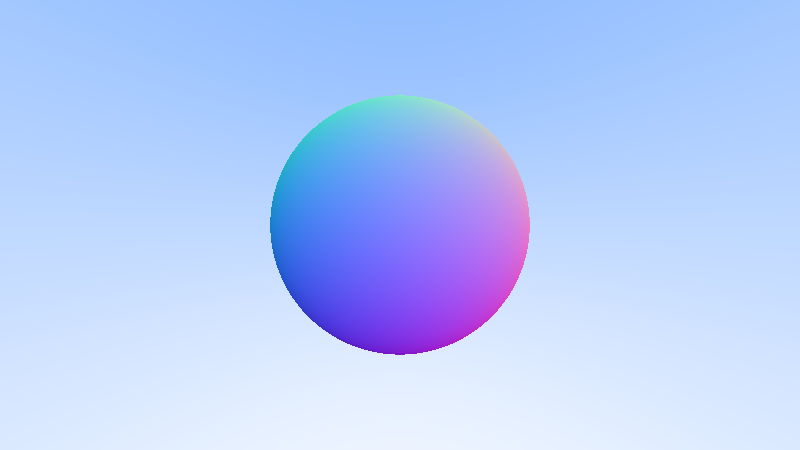
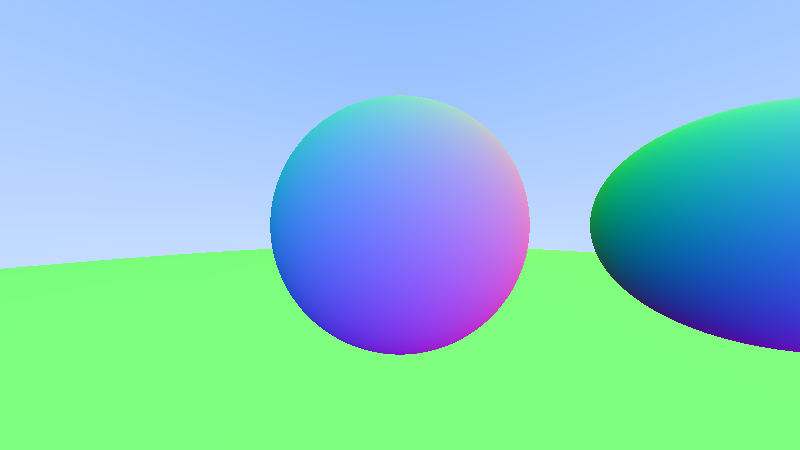
calculating normals and multiple spheres

diff --git a/Reza_Raytracer/main.cpp b/Reza_Raytracer/main.cpp
@@ -3,64 +3,23 @@
 #include <iostream>
 
 #include "ImageHandler.h"
-#include "Vec3.h"
-#include "Ray3.h"
+
+#include "UsefulThings.h"
+
+#include "HittableList.h"
+#include "Sphere.h"
 
 
-double RaySphereIntersection(const Point3& center, double radius, const Ray3& r)
+Color RayColor(const Ray3& r, const HittableList& world)
 {
-
-	/*
-	Equation
-		b * b t^2 +
-		2 b * (A - C) t +
-		(A - C) * (A - C) - r^2
-		= 0
-	where
-		t is a scalar
-		b is a direction vector
-		A is the the ray origin
-		C is the center of the sphere
-	*/
-	
-	Vec3 oc = r.Origin() - center;
-
-	// original version
-	/*auto a = Dot(r.Direction(), r.Direction());
-	auto b = 2.0 * Dot(oc, r.Direction());
-	auto c = Dot(oc, oc) - radius * radius;
-	auto discriminant = b * b - 4 * a * c;*/
-
-	// improved
-	auto a = r.Direction().LengthSquared(); // because r * r = ||r||
-	auto half_b = Dot(oc, r.Direction());
-	auto c = oc.LengthSquared() - radius * radius;
-	auto discriminant = half_b * half_b - a * c;
-	
-	if(discriminant < 0)
+	HitRecord rec;
+	if (world.Hit(r, 0, infinity, rec)) 
 	{
-		return -1;
-	}
-
-	// original version
-	//return (-b - sqrt(discriminant)) / (2.0 * a);
-	// improved
-	return (-half_b - sqrt(discriminant)) / a;
-}
-
-Color RayColor(const Ray3& r)
-{
-	Point3 sphere_center(0, 0, -1);
-	double sphere_radius = 0.5;
-	double t = RaySphereIntersection(sphere_center, sphere_radius, r);
-	if (t > 0)
-	{
-		Vec3 normal_vec = UnitVector(r.At(t) - sphere_center);
-		return 0.5 * Color(normal_vec.x() + 1, normal_vec.y() + 1, normal_vec.z() + 1);
+		return 0.5 * (rec.normal + Color(1, 1, 1));
 	}
 	
 	Vec3 unit_direction = UnitVector(r.Direction());
-	t = 0.5 * (unit_direction.y() + 1.0);
+	auto t = 0.5 * (unit_direction.y() + 1.0);
 	return (1.0 - t) * Color(1.0, 1.0, 1.0) + t * Color(0.5, 0.7, 1.0);
 }
 
@@ -72,6 +31,12 @@ int main()
 	const int image_height = static_cast<int>(image_width / aspect_ratio);
 	ImageHandler imgHandler(image_width, image_height); // set up image handler
 
+	 // World
+	HittableList world;
+	world.Add(make_shared<Sphere>(Point3(0, 0, -1), 0.5));
+	//world.Add(make_shared<Sphere>(Point3(1.5, 0, -1), 0.5));
+	world.Add(make_shared<Sphere>(Point3(0, -100.5, -1), 100));
+	
 	// Camera
 	const auto viewport_height = 2.0;
 	const auto viewport_width = aspect_ratio * viewport_height;
@@ -93,7 +58,7 @@ int main()
 			auto u = double(x) / (image_width - 1);
 			auto v = double(y) / (image_height - 1);
 			Ray3 r(origin, lower_left_corner + u * horizontal + v * vertical - origin);
-			Color pixel_color = RayColor(r);
+			Color pixel_color = RayColor(r, world);
 
 			imgHandler.SetPixel(pixel_color.x(), pixel_color.y(), pixel_color.z());
 		}

diff --git a/Reza_Raytracer/Sphere.cpp b/Reza_Raytracer/Sphere.cpp
@@ -1,0 +1,64 @@
+
+#include "Sphere.h"
+
+
+bool Sphere::Hit(const Ray3& r, 
+				 double t_min, 
+				 double t_max, HitRecord& rec) const
+{
+    /*
+    Equation
+        b * b t^2 +
+        2 b * (A - C) t +
+        (A - C) * (A - C) - r^2
+        = 0
+    where
+        t is a scalar
+        b is a direction vector
+        A is the the ray origin
+        C is the center of the sphere
+    */
+
+    Vec3 oc = r.Origin() - center;
+	
+    // original version
+    /*auto a = Dot(r.Direction(), r.Direction());
+    auto b = 2.0 * Dot(oc, r.Direction());
+    auto c = Dot(oc, oc) - radius * radius;
+    auto discriminant = b * b - 4 * a * c;*/
+
+	// improved version    
+    auto a = r.Direction().LengthSquared();
+    auto half_b = Dot(oc, r.Direction());
+    auto c = oc.LengthSquared() - radius * radius;
+
+    auto discriminant = half_b * half_b - a * c;
+    if (discriminant < 0)
+    {
+        return false;
+    }
+    
+    // original version
+    //return (-b - sqrt(discriminant)) / (2.0 * a);
+    
+    // Find the nearest root that lies in the acceptable range.
+    auto sqrtd = sqrt(discriminant);
+    auto root = (-half_b - sqrtd) / a;
+    if (root < t_min || t_max < root) 
+    {
+    	// not good, compute teh other root
+        root = (-half_b + sqrtd) / a;
+        if (root < t_min || t_max < root)
+        {
+            return false;
+        }
+    }
+
+    rec.t = root;
+    rec.p = r.At(rec.t);
+    //rec.normal = (rec.p - center) / radius;
+    Vec3 outward_normal = (rec.p - center) / radius;
+    rec.SetFaceNormal(r, outward_normal);
+	
+    return true;
+}

diff --git a/Reza_Raytracer/HittableList.h b/Reza_Raytracer/HittableList.h
@@ -1,0 +1,40 @@
+#ifndef __HITTABLE_LIST_H__
+#define __HITTABLE_LIST_H__
+
+#include "Hittable.h"
+
+#include <memory>
+#include <vector>
+
+using std::shared_ptr;
+using std::vector;
+
+class HittableList : public Hittable
+{
+public:
+    HittableList()
+    {	    
+    }
+
+    HittableList(const shared_ptr<Hittable>& object)
+    {
+	    Add(object);
+    }
+
+    void Clear() { objects.clear(); }
+
+    void Add(const shared_ptr<Hittable>& object)
+    {
+	    objects.push_back(object);
+    }
+
+    virtual bool Hit(const Ray3& r, 
+					 double t_min, 
+					 double t_max, 
+					 HitRecord& rec) const override;
+
+public:
+    vector<shared_ptr<Hittable>> objects;
+};
+
+#endif

diff --git a/Reza_Raytracer/Hittable.h b/Reza_Raytracer/Hittable.h
@@ -1,0 +1,27 @@
+#ifndef HITTABLE_H
+#define HITTABLE_H
+
+#include "Ray3.h"
+
+struct HitRecord
+{
+    Point3 p;
+    Vec3 normal;
+    double t;
+    bool front_face;
+
+	// make sure the normal always against the ray 
+    inline void SetFaceNormal(const Ray3& r, const Vec3& outward_normal)
+	{
+        front_face = Dot(r.Direction(), outward_normal) < 0;
+        normal = front_face ? outward_normal : -outward_normal;
+    }
+};
+
+class Hittable
+{
+public:
+    virtual bool Hit(const Ray3& r, double t_min, double t_max, HitRecord& rec) const = 0;
+};
+
+#endif

diff --git a/Reza_Raytracer/HittableList.cpp b/Reza_Raytracer/HittableList.cpp
@@ -1,0 +1,24 @@
+
+#include "HittableList.h"
+
+bool HittableList::Hit(const Ray3& r, 
+					   double t_min, 
+					   double t_max, HitRecord& rec) const
+{
+    HitRecord temp_rec;
+    bool hit_anything = false;
+    auto closest_so_far = t_max; // very clever!
+
+    for (const auto& object : objects) 
+    {
+        if (object->Hit(r, t_min, closest_so_far, temp_rec)) 
+        {
+            hit_anything = true;
+            closest_so_far = temp_rec.t;
+            rec = temp_rec;
+        }
+    }
+
+    return hit_anything;
+}
+

diff --git a/Reza_Raytracer/UsefulThings.h b/Reza_Raytracer/UsefulThings.h
@@ -1,0 +1,32 @@
+#ifndef __USEFUL_THINGS__
+#define __USEFUL_THINGS__
+
+#include <cmath>
+#include <limits>
+#include <memory>
+
+
+// Usings
+
+using std::shared_ptr;
+using std::make_shared;
+using std::sqrt;
+
+// Constants
+
+const double infinity = std::numeric_limits<double>::infinity();
+const double pi = 3.1415926535897932385;
+
+// Utility Functions
+
+inline double DegreesToRadians(double degrees)
+{
+    return degrees * pi / 180.0;
+}
+
+// Common Headers
+
+#include "Ray3.h"
+#include "Vec3.h"
+
+#endif

diff --git a/Reza_Raytracer/Sphere.h b/Reza_Raytracer/Sphere.h
@@ -1,0 +1,28 @@
+#ifndef __SPHERE_H__
+#define __SPHERE_H__
+
+#include "Hittable.h"
+#include "Vec3.h"
+
+class Sphere : public Hittable
+{
+public:
+    Sphere()
+    {	    
+    }
+
+	Sphere(Point3 cen, double r) : center(cen), radius(r)
+    {	    
+    }
+
+    virtual bool Hit(const Ray3& r, 
+					 double t_min, 
+					 double t_max, 
+					 HitRecord& rec) const override;
+
+public:
+    Point3 center;
+    double radius;
+};
+
+#endif
